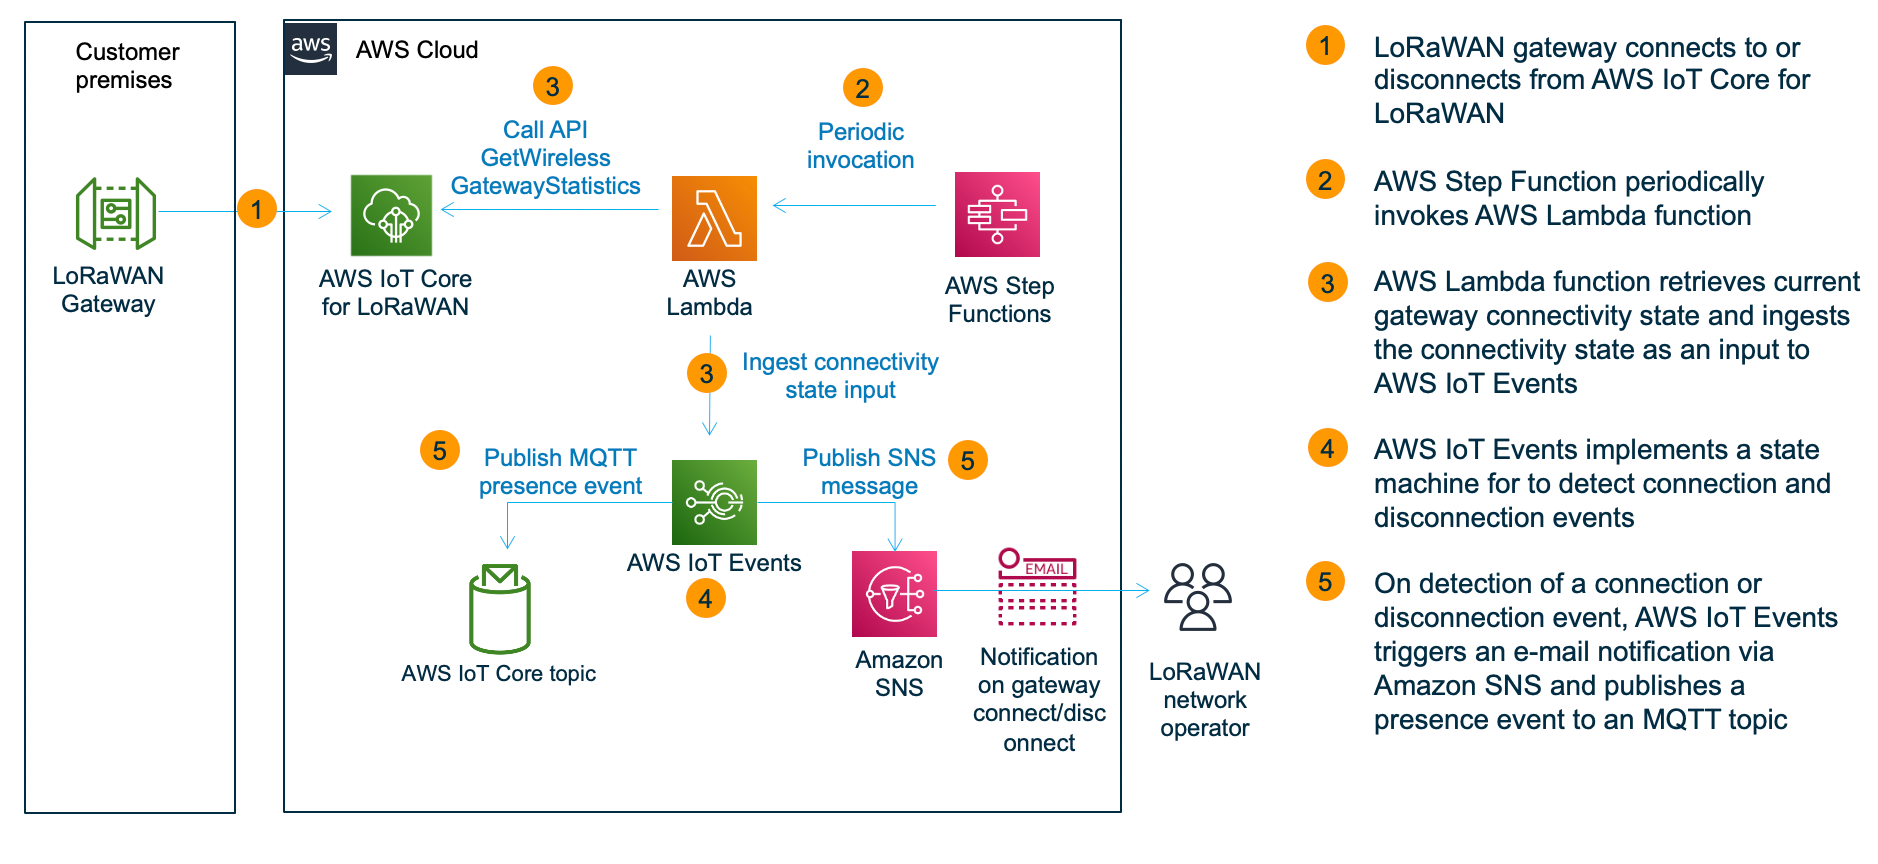
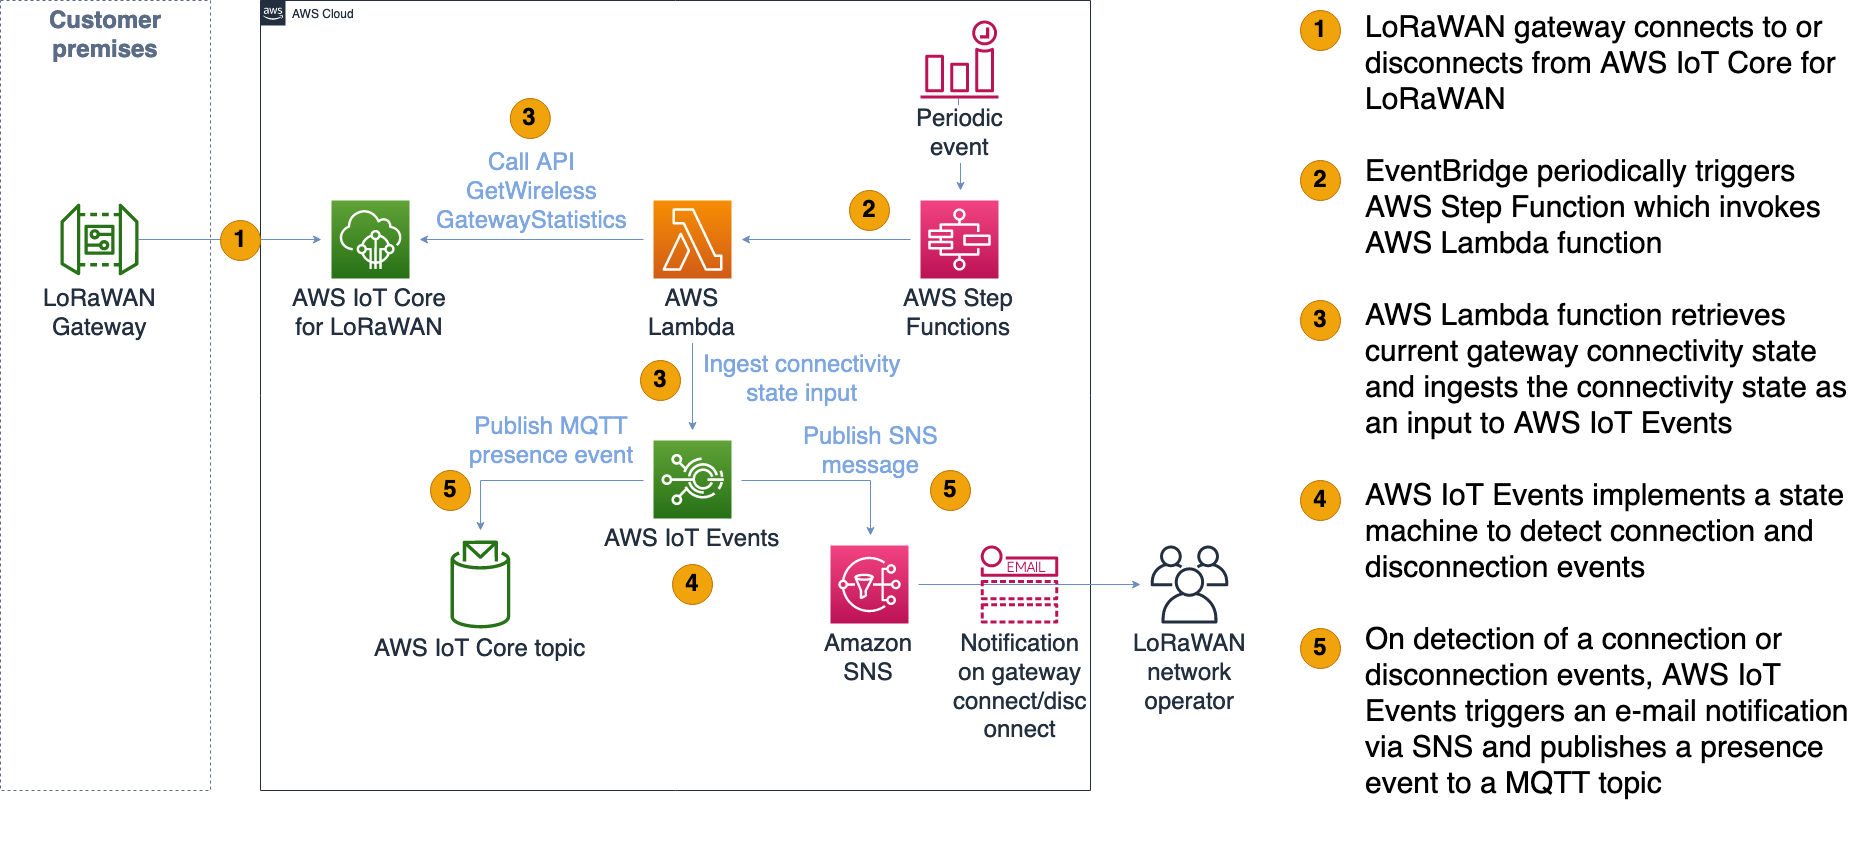
correct the architecture by using an EventBridge rule to trigger the state machine in order to avoid a state machine failure after 25K state changes

Changed region(s): [[0.187, 0.1833, 0.9973, 0.9471], [0.0, 0.0, 0.5922, 0.9471], [0.6857, 0.0, 0.9973, 0.1528]]

diff --git a/workinprogress_dontuse/gateway_watchdog/cdkstack/lorawan_connectivity_watchdog_stack.py b/workinprogress_dontuse/gateway_watchdog/cdkstack/lorawan_connectivity_watchdog_stack.py
@@ -21,6 +21,8 @@ from aws_cdk import aws_lambda as lambda_
 from aws_cdk import aws_iotevents as iotevents
 from aws_cdk import aws_stepfunctions as sfn
 from aws_cdk import aws_stepfunctions_tasks as tasks
+from aws_cdk.aws_events import EventPattern, Rule, Schedule
+import aws_cdk.aws_events_targets as targets
 import aws_cdk.aws_sns as sns
 import aws_cdk.aws_sns_subscriptions as subscriptions
 import lorawan_gateway_monitoring_detectormodel
@@ -114,10 +116,8 @@ class LorawanConnectivityWatchdogStack(cdk.Stack):
         # State 'Fail'
         failure_state = sfn.Fail(self, "Fail")
 
-        # State 'Wait'
-        wait_state = sfn.Wait(self, "Sleep",
-                              time=sfn.WaitTime.duration(cdk.Duration.minutes(4))
-                              )
+        # State 'Success'
+        success_state = sfn.Succeed(self, "Success")
 
         # State 'Ingest gateway connectivity status into IoT Events input'
         lambda_invoke_state = tasks.LambdaInvoke(self,
@@ -129,12 +129,13 @@ class LorawanConnectivityWatchdogStack(cdk.Stack):
 
         # Stat 'Did IoT events ingestion run successfull?'
         choice_lambda_state = sfn.Choice(self, "Did IoT events ingestion run successfull?")
-        choice_lambda_state.when(sfn.Condition.number_equals("$.wireless_gateway_stats.Payload.status", 200), wait_state)
+        choice_lambda_state.when(sfn.Condition.number_equals("$.wireless_gateway_stats.Payload.status", 200), success_state)
         choice_lambda_state.otherwise(failure_state)
 
-        # Define transitions
-        wait_state.next(lambda_invoke_state)
+        
+        # Define transitions        
         lambda_invoke_state.next(choice_lambda_state)
+        
 
         # Crreate a state machine
         gateway_watchdog_state_machine = sfn.StateMachine(
@@ -143,24 +144,28 @@ class LorawanConnectivityWatchdogStack(cdk.Stack):
             definition=lambda_invoke_state,
             state_machine_name="LoRaWANGatewayWatchdogStatemachine"
         )
+
+        ####################################################################################
+        # Event bridge
+
+        #create the trigger for the state machine
+        gateway_watchdog_rule = Rule(self, "LoRaWANGatewayWatchdogScheduledTrigger",
+            schedule=Schedule.rate(cdk.Duration.minutes(4)),
+            targets=[targets.SfnStateMachine(gateway_watchdog_state_machine)],
+            enabled=False
+        )
+
         ####################################################################################
         # CloudFormation Stack outputs
 
         cdk.CfnOutput(
-            self, "StateMachineARN",
-            value=gateway_watchdog_state_machine.state_machine_arn,
-            description="Please run 'aws stepfunctions start-execution --state-machine-arn  <LorawanConnectivityWatchdogStack.StateMachineARN>' to start the monitoring of LoRaWAN gateway connectivity",
-
-        )
-
-        cdk.CfnOutput(
-            self, "StateMachineStartCommand",
-            value='aws stepfunctions start-execution --state-machine-arn ' + gateway_watchdog_state_machine.state_machine_arn,
+            self, "WatchdogStartCommand",
+            value='aws events enable-rule --name ' + gateway_watchdog_rule.rule_name,
             description="Please run this command to start the monitoring of LoRaWAN gateway connectivity",
         )
 
         cdk.CfnOutput(
-            self, "StateMachineStopommand",
-            value='aws stepfunctions stop-execution --state-machine-arn ' + gateway_watchdog_state_machine.state_machine_arn,
+            self, "WatchdogStopommand",
+            value='aws events disable-rule --name ' + gateway_watchdog_rule.rule_name,
             description="Please run this command to stop the monitoring of LoRaWAN gateway connectivity",
         )

diff --git a/workinprogress_dontuse/gateway_watchdog/README.md b/workinprogress_dontuse/gateway_watchdog/README.md
@@ -43,26 +43,17 @@ cdk deploy --parameters emailforalarms=<E-Mail>
 
 Please check your mailbox for an e-mail message with subject "AWS Notification - Subscription Confirmation" and confirm the subscription.
 
-### **3. Start the AWS step functions state machine** 
+### **3. Enable the Amazon EventBridge Rule** 
 
-As an output of the stack, you will receive a command to start the AWS state machine execution, e.g.
+As an output of the stack, you will receive a command to enable the Amazon EventBridge rule, e.g.
 
 ```shell 
 ...
 Outputs:
-LorawanConnectivityWatchdogStack.StateMachineStartCommand = aws stepfunctions start-execution --state-machine-arn arn:aws:states:us-east-1:614797420359:stateMachine:LoRaWANGatewayWatchdogStatemachine67D21B94-Ngdhwg91Keqq
+LorawanConnectivityWatchdogStack.WatchdogStartCommand = aws events enable-rule --name LorawanConnectivityWatchd-LoRaWANGatewayWatchdogSc-17GJ9GEWHDDE0
 ```
 
-The state machine will periodically invoke the AWS Lambda function to read the gateway connectivity status and ingest it to AWS IoT events input. Please run the previously shown command to start the state machine execution , e.g. :
-
-```shell
-aws stepfunctions start-execution --state-machine-arn arn:aws:states:us-east-1:614797420359:stateMachine:LoRaWANGatewayWatchdogStatemachine67D21B94-Ngdhwg91Keqq
-
-{
-    "executionArn": "arn:aws:states:us-east-1:614797420359:execution:LoRaWANGatewayWatchdogStatemachine67D21B94-Ngdhwg91Keqq:4c92e301-8525-4961-80a1-26768d9da294",
-    "startDate": "2021-07-13T21:18:14.426000+02:00"
-}
-```
+The EventBridge rule will periodically trigger the state machine that invoke the AWS Lambda function to read the gateway connectivity status and ingest it to AWS IoT events input. 
     
 ### **4. View notifications and MQTT presence events** 
 
@@ -71,15 +62,15 @@ For a test purpose, disconnect your LoRaWAN gatway from AWS IoT Core for LoRaWAN
 
 ### **5. Stop the execution of the solution** 
 
-As an output of the stack, you have receiveed a command to start the AWS state machine execution, e.g.
+As an output of the stack, you have receiveed a command to disable the Amazon EventBridge rule, e.g.
 
 ```shell 
 ...
 Outputs:
-LorawanConnectivityWatchdogStack.StateMachineStartCommand = aws stepfunctions stop-execution --state-machine-arn arn:aws:states:us-east-1:614797420359:stateMachine:LoRaWANGatewayWatchdogStatemachine67D21B94-Ngdhwg91Keqq
+LorawanConnectivityWatchdogStack.WatchdogStopommand = aws events disable-rule --name LorawanConnectivityWatchd-LoRaWANGatewayWatchdogSc-17GJ9GEWHDDE0
 ```
 
-Please run this command to stop a periodic execution of the Lambda function.
+Please run this command to stop the periodic execution of the watchdog.
 
 ### **6.Remove the stack**
 
@@ -130,3 +121,6 @@ sam-beta-cdk local invoke LorawanConnectivityWatchdogStack/GetWirelessGatewaySta
 ```
 sam-beta-cdk local invoke LorawanConnectivityWatchdogStack/GetWirelessGatewayStatisticsLambda -e tests/input_disconnected.json
 ```
+
+**Note**
+This architecture makes an opinionated use of AWS StepFunctions. An alternative approach is to invoke the Lambda function directly with the EventBridge periodic rule. However, using StepFunctions allows to easily add states in our state machine to combine several watchdogs for example.
